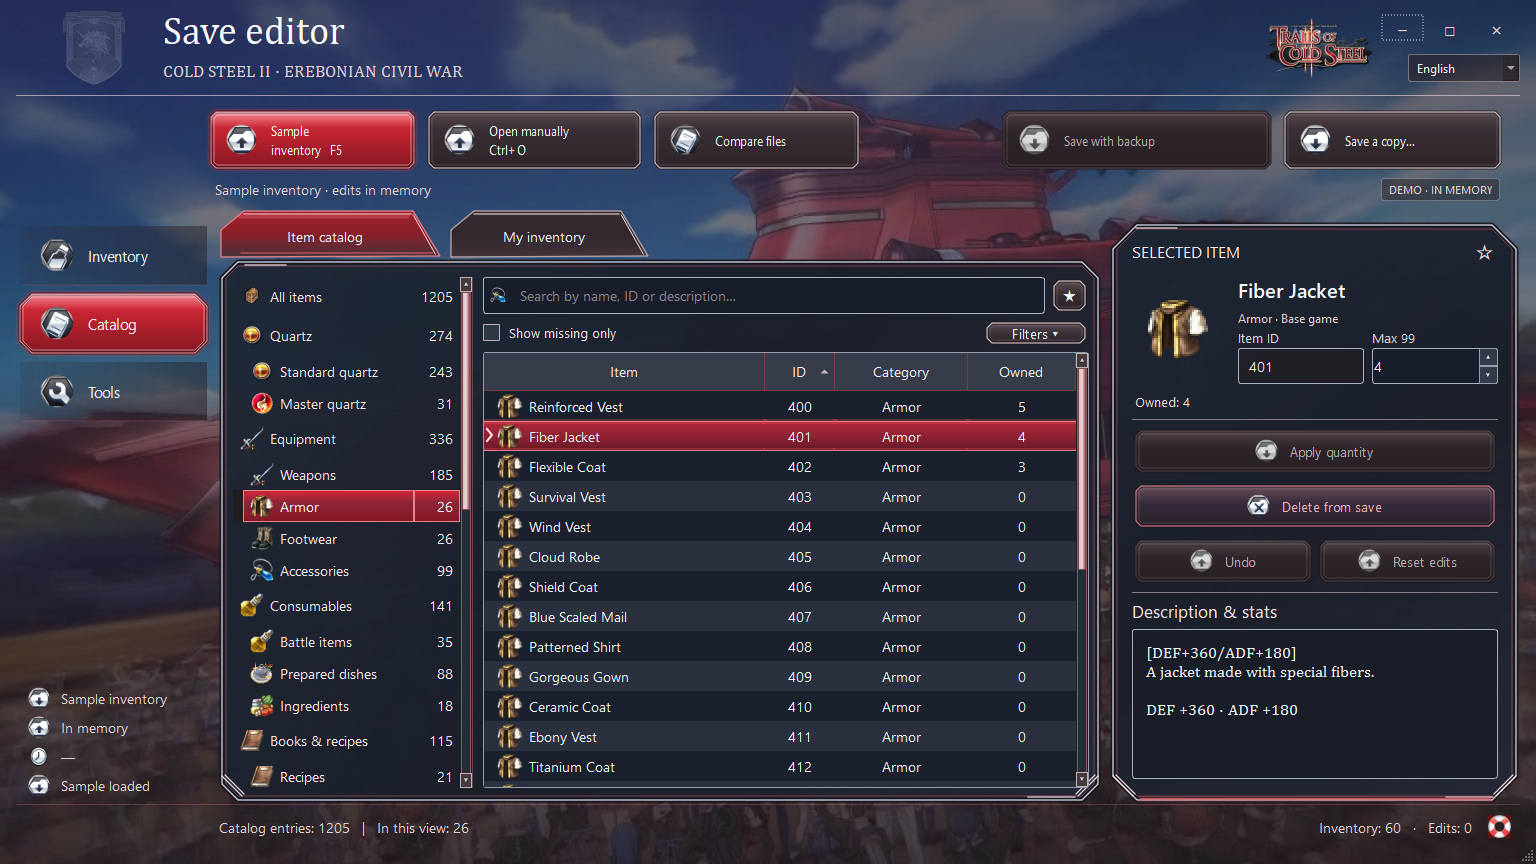
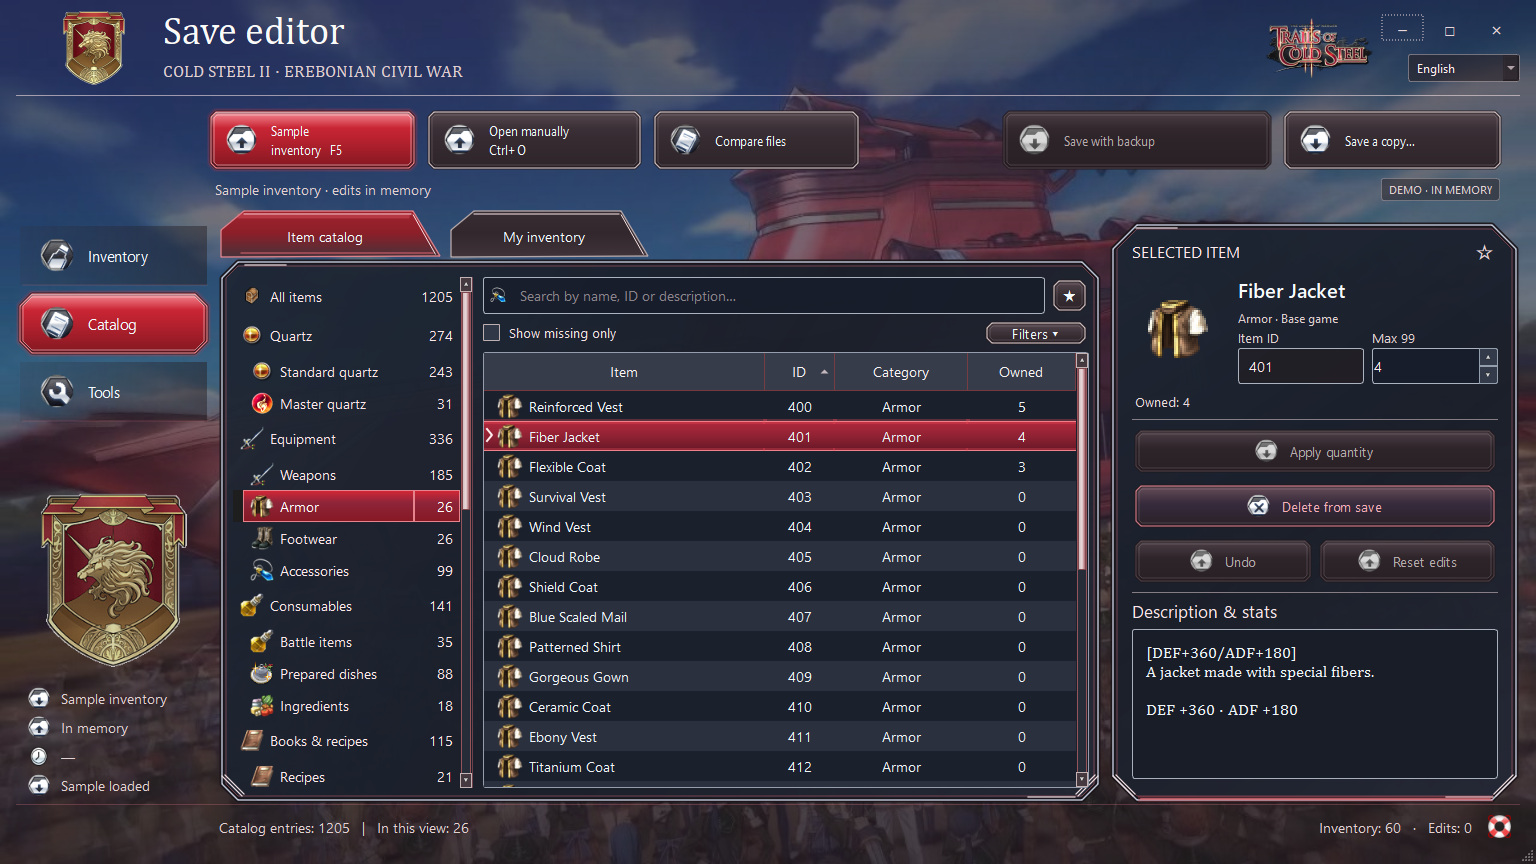
Show the Thors crest in the header and sidebar

Changed region(s): [[0.0, 0.5625, 0.125, 0.7812], [0.0312, 0.0, 0.0938, 0.0938]]

diff --git a/qt_window.py b/qt_window.py
@@ -25,7 +25,7 @@ from PySide6.QtWidgets import (
 
 from categories import GROUPS, CATEGORY_NAMES, CATEGORY_TO_GROUP, category_of, item_in_category
 from qt_backend import EditorCore, find_game_install, read_english_catalog, scan_game_tables, write_csv
-from game_art import ASSETS, INTRO_MOVIE, BackdropFrame, GameArt, prepare_art, steam_logo
+from game_art import ASSETS, BUNDLED_COLOR_CREST, COLOR_CREST, INTRO_MOVIE, BackdropFrame, GameArt, prepare_art, steam_logo
 from edit_changes import EditChanges
 from qt_inventory_model import InventoryModel, ItemRow
 from qt_first_launch import FirstLaunchPage
@@ -38,7 +38,7 @@ SAVE_FILTER = "Cold Steel II (*.dat *.bak)"
 STAT_NAMES_RU = ("СИЛ", "ЗАЩ", "СА", "ЗА", "ТЧН", "УКЛ", "СКР", "ХОД", "ОЗ", "ОЭ")
 
 
-from qt_hud_widgets import (hud_icon, HudButton, HudCheckBox, Backdrop, GlassPanel, AngularTab,
+from qt_hud_widgets import (hud_icon, HudButton, HudCheckBox, Backdrop, RailCrest, GlassPanel, AngularTab,
                             HudTableDelegate, HudTitleBar, ItemTitle, ElideLabel)
 
 
@@ -228,7 +228,9 @@ class MainWindow(QMainWindow):
         self.crest.setAlignment(Qt.AlignmentFlag.AlignCenter)
         self.crest.setAttribute(Qt.WidgetAttribute.WA_TransparentForMouseEvents)
         self.crest.setAccessibleName('Thors Military Academy')
-        self.emblem_art = QPixmap(str(ASSETS / 'thors.png'))
+        self.color_emblem_art = QPixmap(str(COLOR_CREST if COLOR_CREST.is_file() else BUNDLED_COLOR_CREST))
+        self.emblem_art = (self.color_emblem_art if not self.color_emblem_art.isNull()
+                           else QPixmap(str(ASSETS / 'thors.png')))
         if self.emblem_art.isNull():
             self.crest.setText('CS II')
         hl.addWidget(self.crest)
@@ -295,7 +297,9 @@ class MainWindow(QMainWindow):
             b.setIconSize(QSize(38,38))
             b.clicked.connect(lambda checked=False,k=key:self.navigate_section(k))
             self.navigation[key]=b;rl.addWidget(b)
-        rl.addStretch(1)
+        self.rail_crest = RailCrest()
+        self.rail_crest.set_art(self.emblem_art)
+        rl.addWidget(self.rail_crest, 1)
         self.rail_file=ElideLabel()
         self.rail_folder=ElideLabel(mode=Qt.TextElideMode.ElideMiddle)
         for label in (self.rail_file,self.rail_folder):
@@ -1677,7 +1681,9 @@ class MainWindow(QMainWindow):
         self._qt_setup()
         self._refresh_hud_icons()
         self._icon_pixmaps.clear();self._category_icons.clear()
-        self.emblem_art=QPixmap(str(result / 'thors.png'))
+        self.emblem_art = (self.color_emblem_art if not self.color_emblem_art.isNull()
+                           else QPixmap(str(result / 'thors.png')))
+        self.rail_crest.set_art(self.emblem_art)
         if self.emblem_art.isNull():self.crest.setText('CS II')
         self._set_logo(steam_logo(root))
         self.refresh_catalog()

diff --git a/package_release.py b/package_release.py
@@ -10,7 +10,7 @@ import subprocess
 from tempfile import TemporaryDirectory
 from zipfile import ZIP_DEFLATED, ZipFile
 
-from build_preview import ART, EDITOR_ICON, GAME_ICON, ITEM_TEXT, NAME, NOTICES, ROOT
+from build_preview import ART, COLOR_CREST, EDITOR_ICON, GAME_ICON, ITEM_TEXT, NAME, NOTICES, ROOT
 from version import VERSION
 
 
@@ -31,6 +31,8 @@ RUNTIME_FILE = re.compile(
 def bundle_files(bundle: Path, portable: bool):
     allowed = {*DOCUMENTS, f'{NAME}.exe', '_internal/base_library.zip'}
     allowed.update(('_internal/branding/app.ico',) if portable else (f'_internal/assets/{name}' for name in ART))
+    if not portable:
+        allowed.add('_internal/branding/thors-color.png')
     for path in sorted(bundle.rglob('*')):
         member = path.relative_to(bundle)
         if path.is_symlink() or path.is_junction():
@@ -63,11 +65,16 @@ def validate_onefile(executable: Path, *, original_icon: bool = False):
     if app.extract(members['branding/app.ico']) != icon.read_bytes():
         raise ValueError('The embedded application icon differs from the selected icon.')
     dictionary = members.get('translations/item-text.json')
+    crest = members.get('branding/thors-color.png')
     if original_icon:
         if dictionary is None or app.extract(dictionary) != ITEM_TEXT.read_bytes():
             raise ValueError('The local standalone executable lacks the current item dictionary.')
-    elif dictionary is not None:
-        raise ValueError('The public executable contains the local item dictionary.')
+        embedded_crest = app.extract(crest) if crest is not None else None
+        local_crest = COLOR_CREST.read_bytes() if COLOR_CREST.is_file() else None
+        if embedded_crest != local_crest:
+            raise ValueError('The embedded color crest differs from the local artwork.')
+    elif dictionary is not None or crest is not None:
+        raise ValueError('The public executable contains local artwork or translations.')
     if any(name.startswith('assets/') or PurePosixPath(name).suffix.lower() in {'.dat', '.bak', '.vdf', '.log', '.key', '.pem'}
            for name in members):
         raise ValueError('Unexpected private files or game resources embedded in the executable.')

diff --git a/test_preview.py b/test_preview.py
@@ -10,6 +10,7 @@ from unittest import TestCase, skipUnless
 from unittest.mock import patch
 
 from PySide6.QtCore import QItemSelectionModel, QPoint, QSettings, QSize, QTimer, Qt
+from PySide6.QtGui import QColor, QPixmap
 from PySide6.QtTest import QTest
 from PySide6.QtWidgets import QApplication, QFileDialog, QMessageBox, QStyle, QStyleOptionButton
 
@@ -179,6 +180,33 @@ class PreviewTests(TestCase):
 
 
 class CleanWindowTests(TestCase):
+    def test_color_crest_survives_game_art_loading_and_fits_the_rail(self):
+        app = QApplication.instance() or QApplication([])
+        with TemporaryDirectory() as directory:
+            root = Path(directory)
+            profile = QSettings(str(root / "settings.ini"), QSettings.Format.IniFormat)
+            crest = root / "thors-color.png"
+            sample = QPixmap(160, 190)
+            sample.fill(QColor("#fc220a"))
+            self.assertTrue(sample.save(str(crest)))
+            with patch("qt_window.BUNDLED_COLOR_CREST", crest), patch("qt_window.COLOR_CREST", root / "missing.png"):
+                window = MainWindow(EditorCore(profile=profile))
+            window.initial_load_timer.stop()
+            window.show()
+            try:
+                window.on_art_ready(root, root)
+                for size in (QSize(1536, 864), QSize(1138, 619)):
+                    window.fit_work_area(size)
+                    app.processEvents()
+                    self.assertEqual(window.crest.pixmap().toImage().pixelColor(10, 10), QColor("#fc220a"))
+                    rail = window.rail_crest.grab().toImage()
+                    color = rail.pixelColor(rail.width() // 2, rail.height() - 25)
+                    self.assertGreater(color.red(), color.green() + 100)
+                    self.assertLess(window.rail_crest.geometry().bottom(), window.rail_file.geometry().top())
+            finally:
+                window.close()
+                app.processEvents()
+
     def test_smaller_work_area_scrolls_without_changing_standard_layout(self):
         app = QApplication.instance() or QApplication([])
         with TemporaryDirectory() as directory:

diff --git a/qt_hud_widgets.py b/qt_hud_widgets.py
@@ -221,6 +221,30 @@ class Backdrop(QWidget):
         painter.end()
 
 
+class RailCrest(QWidget):
+    def __init__(self, parent=None):
+        super().__init__(parent)
+        self._art = QPixmap()
+        self.setAttribute(Qt.WidgetAttribute.WA_TransparentForMouseEvents)
+
+    def set_art(self, picture: QPixmap):
+        self._art = picture
+        self.update()
+
+    def paintEvent(self, event):
+        space = QSize(min(174, self.width() - 20), min(174, self.height() - 24))
+        if self._art.isNull() or space.isEmpty():
+            return
+        size = self._art.size().scaled(space, Qt.AspectRatioMode.KeepAspectRatio)
+        target = QRectF((self.width() - size.width()) / 2, self.height() - size.height() - 16,
+                        size.width(), size.height())
+        painter = QPainter(self)
+        painter.setRenderHint(QPainter.RenderHint.SmoothPixmapTransform)
+        painter.setOpacity(0.78)
+        painter.drawPixmap(target, self._art, QRectF(self._art.rect()))
+        painter.end()
+
+
 class GlassPanel(QFrame):
     def __init__(self,parent=None,kind='normal'):
         super().__init__(parent);self.kind=kind

diff --git a/build_preview.py b/build_preview.py
@@ -16,6 +16,7 @@ NAME = "Cold_Steel_II_Save_Editor"
 EDITOR_ICON = ROOT / "branding/app.ico"
 GAME_ICON = ROOT / "assets/app.ico"
 ITEM_TEXT = ROOT / "assets/item-text.json"
+COLOR_CREST = ROOT / "assets/thors-color.png"
 NOTICES = "third_party"
 ART = (
     "courageous-backdrop.jpg", "item-text.json",
@@ -80,6 +81,8 @@ def main() -> None:
         arguments += ["--icon", str(assets / "app.ico")]
         for name in ART:
             arguments += ["--add-data", f"{assets / name};assets"]
+    if (args.original_icon or not args.without_assets) and COLOR_CREST.is_file():
+        arguments += ["--add-data", f"{COLOR_CREST};branding"]
     pyinstaller = distribution("PyInstaller")
     copying = next(file for file in pyinstaller.files if file.name == "COPYING.txt")
     notices = build / NOTICES

diff --git a/app.py b/app.py
@@ -96,7 +96,8 @@ def main() -> int:
                 and (args.save is None or window.core.source == args.save.resolve())
             )
             if args.smoke_test_local_art:
-                ready &= (not ASSETS.exists() and not window.emblem_art.isNull() and not window._icon(0).isNull()
+                ready &= (not ASSETS.exists() and not window.crest.pixmap().isNull()
+                          and window.rail_crest.isVisible() and not window._icon(0).isNull()
                           and not window.navigation['inventory'].icon().isNull())
             if ready and args.save is not None:
                 model = window.cat_table.model()

diff --git a/game_art.py b/game_art.py
@@ -16,6 +16,8 @@ from item_catalog import CatalogItem
 
 
 ASSETS = Path(__file__).resolve().parent / "assets"
+COLOR_CREST = ASSETS / "thors-color.png"
+BUNDLED_COLOR_CREST = ASSETS.parent / "branding/thors-color.png"
 ART_CACHE = Path(os.environ.get("LOCALAPPDATA", Path.home() / ".cache")) / "ColdSteelSaveEditor" / "CS2-art-v1"
 INTRO_MOVIE = Path("data/movie/ed82_OP.avi")
 SECONDARY_TILE = 0x100

diff --git a/version.py b/version.py
@@ -1,1 +1,1 @@
-VERSION = "1.0.3"
+VERSION = "1.0.4"

diff --git a/docs/asset-provenance.md b/docs/asset-provenance.md
@@ -1,17 +1,18 @@
 # Local game artwork
 
-The standard CI build uses the editor's airship icon in `branding/app.ico`. The v1.0.3 download in this private repository embeds the original executable icon and the Russian item dictionary. Both builds extract the original UI and item icons from the installed game and read the Courageous background from the intro movie. The editor uses Steam's local logo cache when available. The generated artwork stays in `%LOCALAPPDATA%\ColdSteelSaveEditor`. The README screenshot shows a demo inventory with artwork loaded from the installed game.
+The standard CI build uses the editor's airship icon in `branding/app.ico`. The v1.0.4 download in this private repository embeds the original executable icon, the Russian item dictionary, and the color Thors crest. Both builds extract the original UI and item icons from the installed game and read the Courageous background from the intro movie. The editor uses Steam's local logo cache when available. The generated artwork stays in `%LOCALAPPDATA%\ColdSteelSaveEditor`. The README screenshot shows a demo inventory.
 
 | Local file | Source |
 | --- | --- |
 | `courageous-backdrop.jpg` | Frame at 1:52 of `data/movie/ed82_OP.avi` in the installed game. |
 | `logo.png` | Steam library cache for app `748490`. |
 | `app.ico` | Icon resources of the locally installed `ed8_2_PC_US.exe`. |
+| `thors-color.png` | Optional color crest copied from `assets/thors.png` in the local Cold Steel I editor. The standard build displays the crest from the installed Cold Steel II game. |
 | Item, menu, master quartz, and fish atlases, crest, arrows, and individual item art | Original game packages. The editor extracts these automatically during a catalog scan. `python game_art.py <game directory>` can also extract them into `assets` for a local build. |
 | `item-text.json` | Local Russian dictionary covering all 1,205 catalog names and descriptions and 75 distinct master quartz effect titles. Descriptions use matched Cold Steel I entries, manual translations, and offline Argos Translate output with terminology corrections. The model is used during translation only. |
 
 The MIT license applies to the editor source. Public redistribution rights for the extracted game artwork have not been established. [Gameplay video guidelines](https://www.falcom.co.jp/guideline-en) · [Falcom licensing FAQ](https://www.falcom.co.jp/license/faq)
 
-To build a single EXE locally with the original Windows icon and the local Russian item dictionary, place `app.ico` and `item-text.json` in `assets`. Run `python build_preview.py --without-assets --original-icon`, then `python package_release.py --portable --original-icon`. Find the ZIP in `release/local-standalone`. At runtime the EXE loads the background and item art from your local game installation.
+To build a single EXE locally with the original Windows icon and the local Russian item dictionary, place `app.ico` and `item-text.json` in `assets`. Add `assets/thors-color.png` to embed the color crest. Run `python build_preview.py --without-assets --original-icon`, then `python package_release.py --portable --original-icon`. Find the ZIP in `release/local-standalone`. At runtime the EXE loads the background and item art from your local game installation.
 
 For a local build with all artwork embedded, supply the images and dictionary listed in `build_preview.py` and run `python build_preview.py` followed by `python package_release.py`.

diff --git a/docs/release-notes.md b/docs/release-notes.md
@@ -1,4 +1,4 @@
-# Cold Steel II Save Editor v1.0.3
+# Cold Steel II Save Editor v1.0.4
 
 ## Overview
 
@@ -13,8 +13,8 @@ An offline Windows inventory editor for the Steam PC version of *The Legend of H
 
 ## Improvements
 
-- Russian descriptions cover all 1,205 catalog entries, including fish and DLC packs. The remaining descriptions were translated with offline machine assistance and terminology corrections.
-- All 75 distinct master quartz effect titles are available in Russian. English continues to use the original Steam text.
+- The color Thors Military Academy crest appears beside the title and below the sidebar navigation.
+- Russian descriptions cover all 1,205 catalog entries and 75 distinct master quartz effect titles. English uses the original Steam text.
 - The Windows EXE uses the original Steam game icon.
 
 ## Installation
@@ -32,10 +32,10 @@ Close the game before overwriting a slot. The editor creates and verifies a back
 
 ## Downloads
 
-- `Cold-Steel-II-Save-Editor-v1.0.3-Windows.zip` contains only `Cold_Steel_II_Save_Editor.exe`.
+- `Cold-Steel-II-Save-Editor-v1.0.4-Windows.zip` contains only `Cold_Steel_II_Save_Editor.exe`.
 - `SHA256SUMS.txt` is a separate release download with the SHA-256 checksum for the ZIP.
 
-The executable uses Qt and Qt for Python under LGPLv3 and FFmpeg under LGPLv2.1 or later. [Third-party notices, sources and rebuild instructions](https://github.com/Sqzzzzzzz/Cold-Steel-II-Save-Editor/blob/v1.0.3/third_party/README.md)
+The executable uses Qt and Qt for Python under LGPLv3 and FFmpeg under LGPLv2.1 or later. [Third-party notices, sources and rebuild instructions](https://github.com/Sqzzzzzzz/Cold-Steel-II-Save-Editor/blob/v1.0.4/third_party/README.md)
 
 ## Known Limitations
 

diff --git a/README.md b/README.md
@@ -6,7 +6,7 @@
 
 An offline inventory editor for **The Legend of Heroes: Trails of Cold Steel II** on Steam. It reads item data from the installed game and changes only the active inventory in a verified PC save.
 
-![Cold Steel II Save Editor v1.0.3 showing the English catalog and Fiber Jacket description](docs/editor.jpg)
+![Cold Steel II Save Editor showing the English catalog with the Thors crest in the header and sidebar](docs/editor.jpg)
 
 ## Features
 

diff --git a/CHANGELOG.md b/CHANGELOG.md
@@ -1,5 +1,9 @@
 # Changelog
 
+## 1.0.4
+
+- Display the Thors crest in the title bar and below the sidebar navigation.
+
 ## 1.0.3
 
 - Complete Russian catalog descriptions, including fishing entries and DLC packs.
